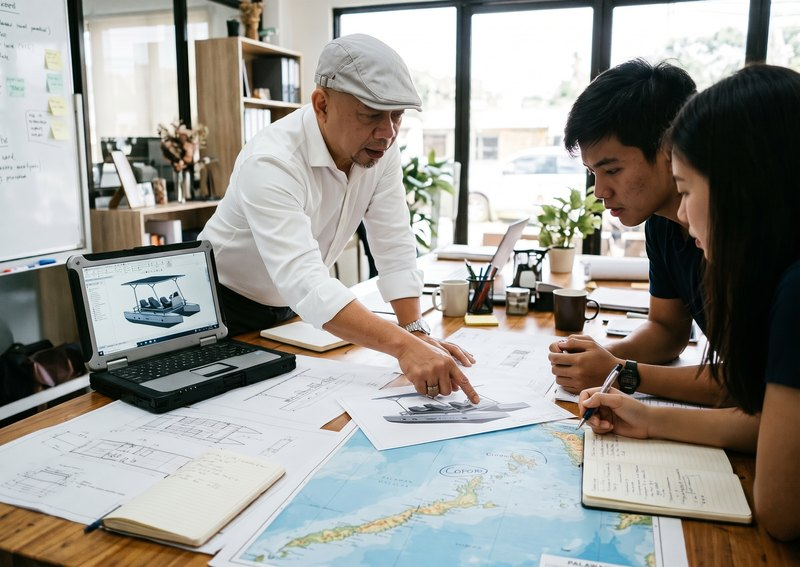
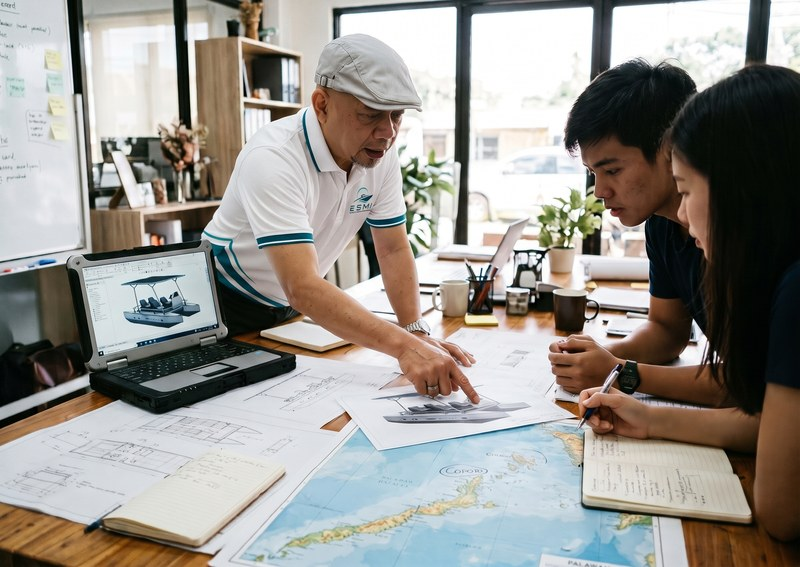
Founders: add Herbert Villadelrey; June Delgado in the ESMI polo
- Homepage: a second founder block for Herbert Villadelrey, mirrored beside
  June Delgado's; June's story now says ESMI was founded together.
- About: "Our founders" section with both portraits, and the intro names
  both founders. Structured data lists both as founders.
- Every June Delgado photo (studio portrait, survey, planning, execution,
  contact, journal, Coron field-notes article) now shows him in the white
  ESMI polo with the teal tipping and wave panels; the About link preview
  is rebuilt from the new photo.
- The "Let's talk" link image no longer has the old interior-architect
  description.

Changed region(s): [[0.25, 0.1799, 0.5312, 0.5996], [0.5, 0.5697, 0.5312, 0.5996], [0.1562, 0.5397, 0.1875, 0.5697]]

diff --git a/about.html b/about.html
@@ -2,10 +2,10 @@
 <html lang="en">
 <head>
 <meta charset="UTF-8">
-<title>About ESMI: June Delgado and our solar electric boats</title>
-<meta name="description" content="Founded in November 2025 by June Delgado after field surveys in Coron, Palawan, ESMI builds modular solar electric boats for local fishers and coastal communities.">
+<title>About ESMI: our founders and our solar electric boats</title>
+<meta name="description" content="Founded in November 2025 by June Delgado and Herbert Villadelrey after field surveys in Coron, Palawan, ESMI builds modular solar electric boats for local fishers and coastal communities.">
  
-<meta name="keywords" content="ESMI, June Delgado, solar electric boat, modular boat, electric catamaran, Coron, Palawan, Philippines, fishers, sustainable fishing">
+<meta name="keywords" content="ESMI, June Delgado, Herbert Villadelrey, solar electric boat, modular boat, electric catamaran, Coron, Palawan, Philippines, fishers, sustainable fishing">
 <meta name="viewport" content="width=device-width, initial-scale=1.0">
 <!-- ESMI SEO -->
 <link rel="canonical" href="https://www.eboatsystem.com/about.html">
@@ -13,19 +13,19 @@
 <meta property="og:site_name" content="ESMI">
 <meta property="og:locale" content="en_PH">
 <meta property="og:type" content="website">
-<meta property="og:title" content="About ESMI: June Delgado and our solar electric boats">
-<meta property="og:description" content="Founded in November 2025 by June Delgado after field surveys in Coron, Palawan, ESMI builds modular solar electric boats for local fishers and coastal communities.">
+<meta property="og:title" content="About ESMI: our founders and our solar electric boats">
+<meta property="og:description" content="Founded in November 2025 by June Delgado and Herbert Villadelrey after field surveys in Coron, Palawan, ESMI builds modular solar electric boats for local fishers and coastal communities.">
 <meta property="og:url" content="https://www.eboatsystem.com/about.html">
 <meta property="og:image" content="https://www.eboatsystem.com/Images/esmi/share/esmi-share-about.jpg">
 <meta property="og:image:type" content="image/jpeg">
 <meta property="og:image:width" content="1200">
 <meta property="og:image:height" content="630">
-<meta property="og:image:alt" content="June Delgado, founder of ESMI, with local fishers and an ESMI boat on a beach in Coron.">
+<meta property="og:image:alt" content="June Delgado, founder of ESMI, in the ESMI polo, with a local fisherman and an ESMI boat on a beach in Coron.">
 <meta name="twitter:card" content="summary_large_image">
-<meta name="twitter:title" content="About ESMI: June Delgado and our solar electric boats">
-<meta name="twitter:description" content="Founded in November 2025 by June Delgado after field surveys in Coron, Palawan, ESMI builds modular solar electric boats for local fishers and coastal communities.">
+<meta name="twitter:title" content="About ESMI: our founders and our solar electric boats">
+<meta name="twitter:description" content="Founded in November 2025 by June Delgado and Herbert Villadelrey after field surveys in Coron, Palawan, ESMI builds modular solar electric boats for local fishers and coastal communities.">
 <meta name="twitter:image" content="https://www.eboatsystem.com/Images/esmi/share/esmi-share-about.jpg">
-<meta name="twitter:image:alt" content="June Delgado, founder of ESMI, with local fishers and an ESMI boat on a beach in Coron.">
+<meta name="twitter:image:alt" content="June Delgado, founder of ESMI, in the ESMI polo, with a local fisherman and an ESMI boat on a beach in Coron.">
 <script type="application/ld+json">
 {
  "@context": "https://schema.org",
@@ -92,7 +92,7 @@
 					<div class="AproposA2a ano0">
 						<h1>ESMI builds <strong>modular, solar-powered electric boats</strong> for the&nbsp;fishers and coastal communities of the&nbsp;Philippines.</h1>
 
-						<p><br>Founded in November&nbsp;2025 by <strong>June&nbsp;Delgado</strong>, ESMI, Eboat System Merchandising Incorporated, was born from a simple conviction: the people who live from the sea deserve boats that are <strong>cleaner, quieter and cheaper to run</strong>.</p>
+						<p><br>Founded in November&nbsp;2025 by <strong>June&nbsp;Delgado</strong> and <strong>Herbert&nbsp;Villadelrey</strong>, ESMI, Eboat System Merchandising Incorporated, was born from a simple conviction: the people who live from the sea deserve boats that are <strong>cleaner, quieter and cheaper to run</strong>.</p>
 
 					</div>
 					<div class="AproposA2b ano0">
@@ -103,6 +103,32 @@
 				</div>
 				<div class="ret"></div>
 			</div>
+		</div>
+
+
+		<div class="esmiFounders">
+			<h2 class="any1">Our founders</h2>
+			<p class="any1">ESMI was founded in November&nbsp;2025 by <strong>June&nbsp;Delgado</strong> and <strong>Herbert&nbsp;Villadelrey</strong>, who lead the company together.</p>
+			<ul>
+				<li class="any1">
+					<div class="animIMG2">
+					<img src="Images/esmi/esmi-founder-june-delgado.jpg" alt="June Delgado, founder of ESMI, in the white ESMI polo shirt."
+					srcset="Images/esmi/esmi-founder-june-delgado-B.jpg 880w, Images/esmi/esmi-founder-june-delgado.jpg 1350w" sizes="(max-width: 900px) 80vw, 40vw">
+					<i></i>
+					</div>
+					<strong>June Delgado</strong>
+					<span>Founder</span>
+				</li>
+				<li class="any1">
+					<div class="animIMG2">
+					<img src="Images/esmi/esmi-founder-herbert-villadelrey.jpg" alt="Herbert Villadelrey, founder of ESMI, in the white ESMI polo shirt."
+					srcset="Images/esmi/esmi-founder-herbert-villadelrey-B.jpg 880w, Images/esmi/esmi-founder-herbert-villadelrey.jpg 1350w" sizes="(max-width: 900px) 80vw, 40vw">
+					<i></i>
+					</div>
+					<strong>Herbert Villadelrey</strong>
+					<span>Founder</span>
+				</li>
+			</ul>
 		</div>
 
 
@@ -166,7 +192,7 @@
 
 
 	<div id="echangeons" class="ano0">
-		<div class="echange"><a href="contact.html"><span>Let’s talk about <br>your project </span><br><b><img src="Images/Plus2.png" alt="ESMI interior architect contact details"></b></a></div>
+		<div class="echange"><a href="contact.html"><span>Let’s talk about <br>your project </span><br><b><img src="Images/Plus2.png" alt="Contact ESMI"></b></a></div>
 		<ul class="pagesG">
 			<li class="any1"><a href="index.html"><i>01</i><span>Home</span></a></li>
 			<li class="any1"><a href="about.html" class="echangeMactif"><i>02</i><span>About</span></a></li>

diff --git a/Fichiers/Styles-v4.css b/Fichiers/Styles-v4.css
@@ -240,14 +240,14 @@ sup {font-size: 0.55em; line-height: 1em}
 	#presentation h2 {color:#fff; font-family: 'BO2', sans-serif; text-transform: uppercase;  font-weight: 400; font-size:4.3em; line-height: 1.2em; position: relative; z-index: 10; text-align: center; padding-top: 4em; padding-bottom:4em; }
 	#presentation .img84 {width: 83%; max-width: 2200px;  margin-left: auto; margin-right: auto; display: block; position: relative; z-index: 10}
 
-#presentation2 {width: 75%; max-width: 1430px; margin-left: auto; margin-right: auto; position: relative}
+#presentation2 , #presentation2b {width: 75%; max-width: 1430px; margin-left: auto; margin-right: auto; position: relative}
 	.pres2G {width: 45%; float: left; padding-top: 5em;}
 	.pres2D {width: 50%; float: right; position: relative; z-index: 20; padding-top: 5em;}
-	#presentation2 h1 {color:#03424c; font-family: 'BO2', sans-serif; text-transform: uppercase;  font-weight: 400; line-height: 1.3em; font-size: 3.1em; padding-top:1em}
-	#presentation2 p {color: #2b4a50; font-weight: 400; font-size: 1.3em; line-height: 1.7em; padding-top: 1.8em; margin: 0}
-	#presentation2 p strong {font-weight: 600}
-	#presentation2 .plus {margin-top:2.5em}
-	#presentation2 .fondjaune {position: absolute; top:0; left:20%; width:35%; height: 400px; background-color: #08aeac; z-index: 15; 
+	#presentation2 h1 , #presentation2b h1 {color:#03424c; font-family: 'BO2', sans-serif; text-transform: uppercase;  font-weight: 400; line-height: 1.3em; font-size: 3.1em; padding-top:1em}
+	#presentation2 p , #presentation2b p {color: #2b4a50; font-weight: 400; font-size: 1.3em; line-height: 1.7em; padding-top: 1.8em; margin: 0}
+	#presentation2 p strong , #presentation2b p strong {font-weight: 600}
+	#presentation2 .plus , #presentation2b .plus {margin-top:2.5em}
+	#presentation2 .fondjaune , #presentation2b .fondjaune {position: absolute; top:0; left:20%; width:35%; height: 400px; background-color: #08aeac; z-index: 15; 
 			transform-origin: 0 0; visibility: hidden}
 
 
@@ -611,7 +611,7 @@ body {font-size: 0.8em}
 	#remonte img {width:16px; margin-left:-8px; margin-top:-8px}	
 
 #presentation h2 {padding-top:4.5em; padding-bottom:4.5em; }
-#presentation2 {width: 75%; max-width: 1150px}
+#presentation2 , #presentation2b {width: 75%; max-width: 1150px}
 #presentation3 h2 {padding-top:4.5em; padding-bottom: 2em; }
 #presentation4 {width: 75%;max-width: 1150px}
 #visusflotantInt {width: 75%; max-width: 1150px}
@@ -643,8 +643,8 @@ body {font-size: 0.72em}
 	
 #presentation h2 {font-size:4em}
 	#presentation .img84 {width: 88%}
-#presentation2 {width: 80%}
-	#presentation2 h1 {font-size: 3em}
+#presentation2 , #presentation2b {width: 80%}
+	#presentation2 h1 , #presentation2b h1 {font-size: 3em}
 #presentation3 h2 {font-size:4em}
 	#presentation3 .img84 {width: 88%}
 #presentation4 {width: 80%;}
@@ -688,7 +688,7 @@ body {font-size: 0.72em}
 
 	
 #presentation h2 {font-size:3.7em}
-	#presentation2 h1 {font-size: 2.6em}
+	#presentation2 h1 , #presentation2b h1 {font-size: 2.6em}
 #presentation3 h2 {font-size:3.7em}
 	#presentation4 h2 {font-size: 2.6em}
 #fondHprojets {height:26em}
@@ -752,11 +752,11 @@ body {font-size: 0.72em}
 #presentation h2 {font-size:3.7em; width: 90%; margin-left: auto; margin-right: auto}
 	#presentation h2 br {display: none}
 	#presentation .img84 {width: 90%}
-#presentation2 {width: 90%;}
+#presentation2 , #presentation2b {width: 90%;}
 	.pres2G {width: 40%; padding-top: 5em;}
 	.pres2D {width: 55%; padding-top: 5em;}
-	#presentation2 h1 {font-size: 2.4em}
-	#presentation2 .fondjaune {left:20%; width:30%}
+	#presentation2 h1 , #presentation2b h1 {font-size: 2.4em}
+	#presentation2 .fondjaune , #presentation2b .fondjaune {left:20%; width:30%}
 #presentation3 h2 {font-size:3.7em; width: 90%; margin-left: auto; margin-right: auto}
 	#presentation3 .img84 {width: 90%}
 #presentation4 {width: 90%;}
@@ -887,8 +887,8 @@ body {font-size: 0.72em}
 #presentation h2 {font-size:2.8em; padding-top: 4em; padding-bottom: 3em;}
 	.pres2G {width: 80%; float: none; padding-top: 5em;}
 	.pres2D {width: 100%; float: none; padding-top: 2.5em;}
-	#presentation2 h1 {font-size: 2.2em}
-	#presentation2 .fondjaune {left:70%; width:30%}
+	#presentation2 h1 , #presentation2b h1 {font-size: 2.2em}
+	#presentation2 .fondjaune , #presentation2b .fondjaune {left:70%; width:30%}
 #presentation3 h2 {font-size:2.8em}
 #presentation4 {margin-top: 10em; margin-bottom: 10em;}
 	#presentation4 h2 {font-size: 2.2em}
@@ -1084,3 +1084,21 @@ html.esmiInspectOpen, html.esmiInspectOpen body {overflow: hidden}
 .inspectBtn svg {width: 1.25em; height: 1.25em; flex: none}
 @media screen and (max-width: 1140px) { .inspectBtnWrap {width: 38%; margin-left: 0%} }
 @media screen and (max-width: 710px) { .inspectBtnWrap {width: 96%; margin-left: 4%; text-align: left} }
+
+
+/* ESMI founders: second homepage founder block, mirrored (photo right, text left) */
+#presentation2b .pres2G {float: right}
+#presentation2b .pres2D {float: left}
+#presentation2b .fondjaune {left: auto; right: 20%}
+@media screen and (max-width: 710px) {#presentation2b .pres2G, #presentation2b .pres2D {float: none} #presentation2b .pres2G {margin-left: auto} #presentation2b .fondjaune {left: 0; right: auto}}
+
+/* ESMI founders: About page section */
+.esmiFounders {width: 75%; max-width: 1150px; margin: 12em auto 0; text-align: center}
+.esmiFounders h2 {color: #03424c; font-family: 'BO2', sans-serif; text-transform: uppercase; font-weight: 400; font-size: 3.1em; line-height: 1.3em}
+.esmiFounders > p {color: #2b4a50; font-size: 1.3em; line-height: 1.7em; max-width: 40em; margin: 1.2em auto 0}
+.esmiFounders > p strong {font-weight: 600}
+.esmiFounders ul {list-style: none; margin: 4.5em 0 0; padding: 0; display: flex; justify-content: center; gap: 8%}
+.esmiFounders li {width: 38%}
+.esmiFounders li strong {display: block; color: #03424c; font-family: 'BO2', sans-serif; text-transform: uppercase; font-weight: 400; font-size: 2em; line-height: 1.2em; margin-top: 1.1em}
+.esmiFounders li span {display: block; color: #08aeac; font-size: 1em; font-weight: 600; letter-spacing: .14em; text-transform: uppercase; margin-top: .5em}
+@media screen and (max-width: 900px) {.esmiFounders {width: 88%; margin-top: 8em} .esmiFounders h2 {font-size: 2.2em} .esmiFounders ul {flex-direction: column; align-items: center; gap: 4em} .esmiFounders li {width: 80%}}

diff --git a/index.html b/index.html
@@ -4,7 +4,7 @@
 <meta charset="UTF-8">
 <title>ESMI: solar-electric modular boats in the Philippines</title>
 <meta name="description" content="ESMI, Eboat System Merchandising Incorporated: solar-electric modular boats for tour operators, resorts and fishers in the Philippines, starting in Coron, Palawan.">
-<meta name="keywords" content="ESMI, Eboat System Merchandising Incorporated, solar electric boat, electric boat Philippines, modular boat, catamaran, bangka, Coron, Palawan, El Nido, June Delgado">
+<meta name="keywords" content="ESMI, Eboat System Merchandising Incorporated, solar electric boat, electric boat Philippines, modular boat, catamaran, bangka, Coron, Palawan, El Nido, June Delgado, Herbert Villadelrey">
 <meta name="viewport" content="width=device-width, initial-scale=1.0">
 <!-- ESMI SEO -->
 <link rel="canonical" href="https://www.eboatsystem.com/">
@@ -44,10 +44,16 @@
    "image": "https://www.eboatsystem.com/Images/esmi/share/esmi-share-home.jpg",
    "description": "Solar-electric modular boats for tour operators, resorts, fishers and coastal communities in the Philippines, starting in Coron, Palawan.",
    "foundingDate": "2025-11",
-   "founder": {
-    "@type": "Person",
-    "name": "June Delgado"
-   },
+   "founder": [
+    {
+     "@type": "Person",
+     "name": "June Delgado"
+    },
+    {
+     "@type": "Person",
+     "name": "Herbert Villadelrey"
+    }
+   ],
    "email": "info@eboatsystem.com",
    "areaServed": {
     "@type": "Country",
@@ -185,7 +191,7 @@
 		</div>
 		<div class="pres2D ano0">
 			<h1>June Delgado, <br>Founder of ESMI</h1>
-			<p>June Delgado founded <strong>ESMI, Eboat System Merchandising Incorporated</strong>, in November&nbsp;2025 with one clear purpose: to give the coastal communities that live from the sea access to clean, quiet and affordable <strong>solar electric boats</strong>.<br><br>
+			<p>June Delgado founded <strong>ESMI, Eboat System Merchandising Incorporated</strong>, together with <strong>Herbert&nbsp;Villadelrey</strong> in November&nbsp;2025 with one clear purpose: to give the coastal communities that live from the sea access to clean, quiet and affordable <strong>solar electric boats</strong>.<br><br>
 				
 			The idea took shape in the field. During surveys across <strong>Coron, Palawan</strong> and the neighbouring island communities, June and his team spent time with local fishers and boat operators and saw the same challenges again and again: fuel that takes a large share of every day's catch, engines that are hard to repair far from a workshop, and noise and fuel spills affecting the reefs and fishing grounds that families depend on.<br><br>
 			
@@ -194,6 +200,27 @@
 			Today, ESMI works hand in hand with <strong>local fishers</strong>, cooperatives and tourism operators to put solar electric boats within reach, helping them lower their daily costs, protect their waters and build a more sustainable livelihood for the next generation.
 			</p>
 			<a class="plus" href="about.html"><img src="Images/Plus.png" alt="More about ESMI"></a>
+			<div class="ret"></div>
+		</div>
+		<div class="ret"></div>
+		<div class="fondjaune"></div>
+	</div>
+
+	<div id="presentation2b" class="ano0 margH20">
+		<div class="pres2G">
+			<div class="animIMG2">
+				<img src="Images/esmi/esmi-founder-herbert-villadelrey.jpg" alt="Herbert Villadelrey, founder of ESMI, in the white ESMI polo shirt."
+				srcset="Images/esmi/esmi-founder-herbert-villadelrey-B.jpg 880w, Images/esmi/esmi-founder-herbert-villadelrey.jpg 1350w" sizes="100vw">
+				<i></i>
+			</div>
+		</div>
+		<div class="pres2D ano0">
+			<h1>Herbert Villadelrey, <br>Founder of ESMI</h1>
+			<p><strong>Herbert Villadelrey</strong> is a founder of <strong>ESMI, Eboat System Merchandising Incorporated</strong>, which he started together with June&nbsp;Delgado in November&nbsp;2025.<br><br>
+			The two founders share one goal: to make <strong>clean, quiet and affordable solar electric boats</strong> an everyday choice for the fishers, tour operators and coastal communities of the&nbsp;Philippines, beginning in <strong>Coron, Palawan</strong>.<br><br>
+			Together they lead ESMI as it moves from field surveys and prototypes to the first boats on the water: modular boats that are delivered in parts, assembled on site and powered by the&nbsp;sun.
+			</p>
+			<a class="plus" href="about.html"><img src="Images/Plus.png" alt="More about the ESMI founders"></a>
 			<div class="ret"></div>
 		</div>
 		<div class="ret"></div>
@@ -343,7 +370,7 @@
 	
 	
 	<div id="echangeons" class="ano0">
-		<div class="echange"><a href="contact.html"><span>Let’s talk about <br>your project </span><br><b><img src="Images/Plus2.png" alt="ESMI interior architect contact details"></b></a></div>
+		<div class="echange"><a href="contact.html"><span>Let’s talk about <br>your project </span><br><b><img src="Images/Plus2.png" alt="Contact ESMI"></b></a></div>
 		<ul class="pagesG">
 			<li class="any1"><a href="index.html" class="echangeMactif"><i>01</i><span>Home</span></a></li>
 			<li class="any1"><a href="about.html"><i>02</i><span>About</span></a></li>

diff --git a/contact.html b/contact.html
@@ -117,7 +117,7 @@
 	
 	
 	<div id="echangeons" class="ano0">
-		<div class="echange"><a href="contact.html"><span>Let’s talk about <br>your project </span><br><b><img src="Images/Plus2.png" alt="ESMI interior architect contact details"></b></a></div>
+		<div class="echange"><a href="contact.html"><span>Let’s talk about <br>your project </span><br><b><img src="Images/Plus2.png" alt="Contact ESMI"></b></a></div>
 		<ul class="pagesG">
 			<li class="any1"><a href="index.html"><i>01</i><span>Home</span></a></li>
 			<li class="any1"><a href="about.html"><i>02</i><span>About</span></a></li>

diff --git a/journal-coron-field-notes.html b/journal-coron-field-notes.html
@@ -218,7 +218,7 @@
 
 
 	<div id="echangeons" class="ano0">
-		<div class="echange"><a href="contact.html"><span>Let’s talk about <br>your project </span><br><b><img src="Images/Plus2.png" alt="ESMI interior architect contact details"></b></a></div>
+		<div class="echange"><a href="contact.html"><span>Let’s talk about <br>your project </span><br><b><img src="Images/Plus2.png" alt="Contact ESMI"></b></a></div>
 		<ul class="pagesG">
 			<li class="any1"><a href="index.html"><i>01</i><span>Home</span></a></li>
 			<li class="any1"><a href="about.html"><i>02</i><span>About</span></a></li>

diff --git a/journal-fuel-costs.html b/journal-fuel-costs.html
@@ -218,7 +218,7 @@
 
 
 	<div id="echangeons" class="ano0">
-		<div class="echange"><a href="contact.html"><span>Let’s talk about <br>your project </span><br><b><img src="Images/Plus2.png" alt="ESMI interior architect contact details"></b></a></div>
+		<div class="echange"><a href="contact.html"><span>Let’s talk about <br>your project </span><br><b><img src="Images/Plus2.png" alt="Contact ESMI"></b></a></div>
 		<ul class="pagesG">
 			<li class="any1"><a href="index.html"><i>01</i><span>Home</span></a></li>
 			<li class="any1"><a href="about.html"><i>02</i><span>About</span></a></li>

diff --git a/journal-modular-boat-transport.html b/journal-modular-boat-transport.html
@@ -218,7 +218,7 @@
 
 
 	<div id="echangeons" class="ano0">
-		<div class="echange"><a href="contact.html"><span>Let’s talk about <br>your project </span><br><b><img src="Images/Plus2.png" alt="ESMI interior architect contact details"></b></a></div>
+		<div class="echange"><a href="contact.html"><span>Let’s talk about <br>your project </span><br><b><img src="Images/Plus2.png" alt="Contact ESMI"></b></a></div>
 		<ul class="pagesG">
 			<li class="any1"><a href="index.html"><i>01</i><span>Home</span></a></li>
 			<li class="any1"><a href="about.html"><i>02</i><span>About</span></a></li>

diff --git a/journal-palawan-tourism.html b/journal-palawan-tourism.html
@@ -217,7 +217,7 @@
 
 
 	<div id="echangeons" class="ano0">
-		<div class="echange"><a href="contact.html"><span>Let’s talk about <br>your project </span><br><b><img src="Images/Plus2.png" alt="ESMI interior architect contact details"></b></a></div>
+		<div class="echange"><a href="contact.html"><span>Let’s talk about <br>your project </span><br><b><img src="Images/Plus2.png" alt="Contact ESMI"></b></a></div>
 		<ul class="pagesG">
 			<li class="any1"><a href="index.html"><i>01</i><span>Home</span></a></li>
 			<li class="any1"><a href="about.html"><i>02</i><span>About</span></a></li>

diff --git a/journal-registering-electric-boat.html b/journal-registering-electric-boat.html
@@ -218,7 +218,7 @@
 
 
 	<div id="echangeons" class="ano0">
-		<div class="echange"><a href="contact.html"><span>Let’s talk about <br>your project </span><br><b><img src="Images/Plus2.png" alt="ESMI interior architect contact details"></b></a></div>
+		<div class="echange"><a href="contact.html"><span>Let’s talk about <br>your project </span><br><b><img src="Images/Plus2.png" alt="Contact ESMI"></b></a></div>
 		<ul class="pagesG">
 			<li class="any1"><a href="index.html"><i>01</i><span>Home</span></a></li>
 			<li class="any1"><a href="about.html"><i>02</i><span>About</span></a></li>

diff --git a/journal-solar-canopy.html b/journal-solar-canopy.html
@@ -218,7 +218,7 @@
 
 
 	<div id="echangeons" class="ano0">
-		<div class="echange"><a href="contact.html"><span>Let’s talk about <br>your project </span><br><b><img src="Images/Plus2.png" alt="ESMI interior architect contact details"></b></a></div>
+		<div class="echange"><a href="contact.html"><span>Let’s talk about <br>your project </span><br><b><img src="Images/Plus2.png" alt="Contact ESMI"></b></a></div>
 		<ul class="pagesG">
 			<li class="any1"><a href="index.html"><i>01</i><span>Home</span></a></li>
 			<li class="any1"><a href="about.html"><i>02</i><span>About</span></a></li>

diff --git a/journal.html b/journal.html
@@ -177,7 +177,7 @@
 
 
 	<div id="echangeons" class="ano0">
-		<div class="echange"><a href="contact.html"><span>Let’s talk about <br>your project </span><br><b><img src="Images/Plus2.png" alt="ESMI interior architect contact details"></b></a></div>
+		<div class="echange"><a href="contact.html"><span>Let’s talk about <br>your project </span><br><b><img src="Images/Plus2.png" alt="Contact ESMI"></b></a></div>
 		<ul class="pagesG">
 			<li class="any1"><a href="index.html"><i>01</i><span>Home</span></a></li>
 			<li class="any1"><a href="about.html"><i>02</i><span>About</span></a></li>

diff --git a/portfolio.html b/portfolio.html
@@ -213,7 +213,7 @@
 
 
 	<div id="echangeons" class="ano0">
-		<div class="echange"><a href="contact.html"><span>Let’s talk about <br>your project </span><br><b><img src="Images/Plus2.png" alt="ESMI interior architect contact details"></b></a></div>
+		<div class="echange"><a href="contact.html"><span>Let’s talk about <br>your project </span><br><b><img src="Images/Plus2.png" alt="Contact ESMI"></b></a></div>
 		<ul class="pagesG">
 			<li class="any1"><a href="index.html"><i>01</i><span>Home</span></a></li>
 			<li class="any1"><a href="about.html"><i>02</i><span>About</span></a></li>
